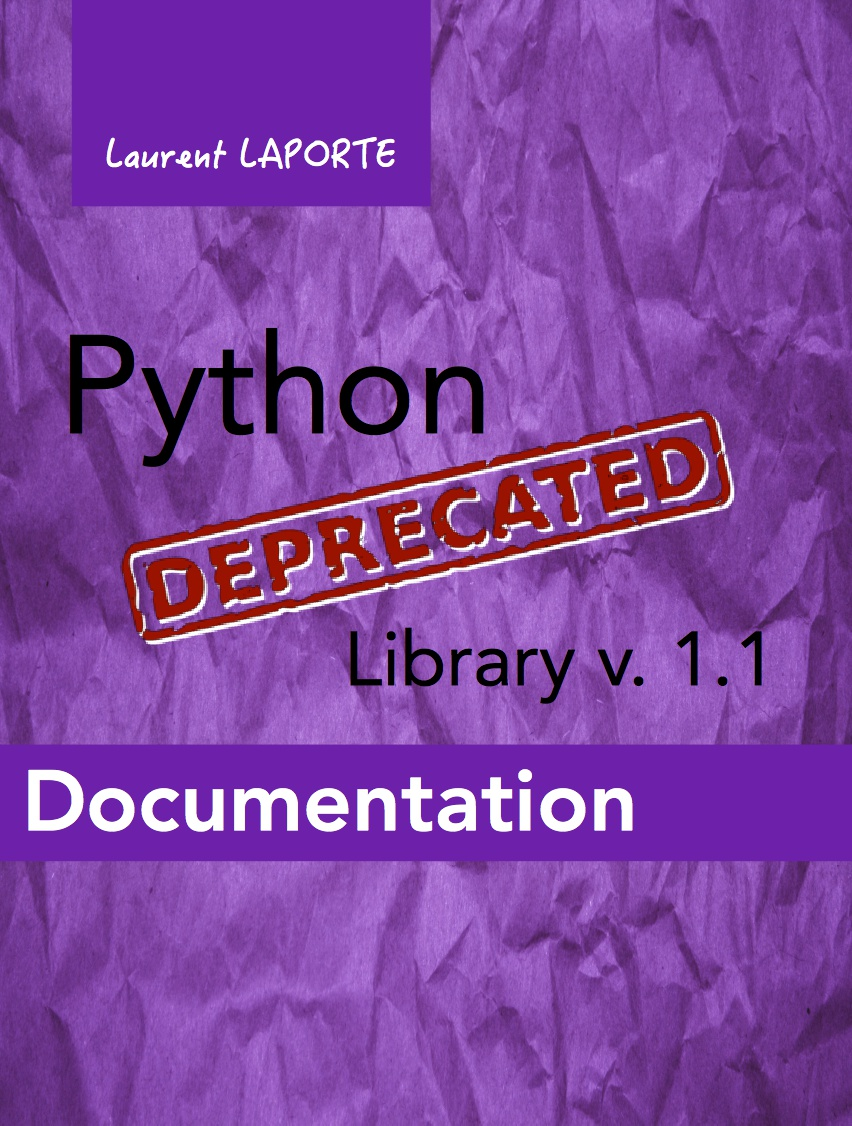
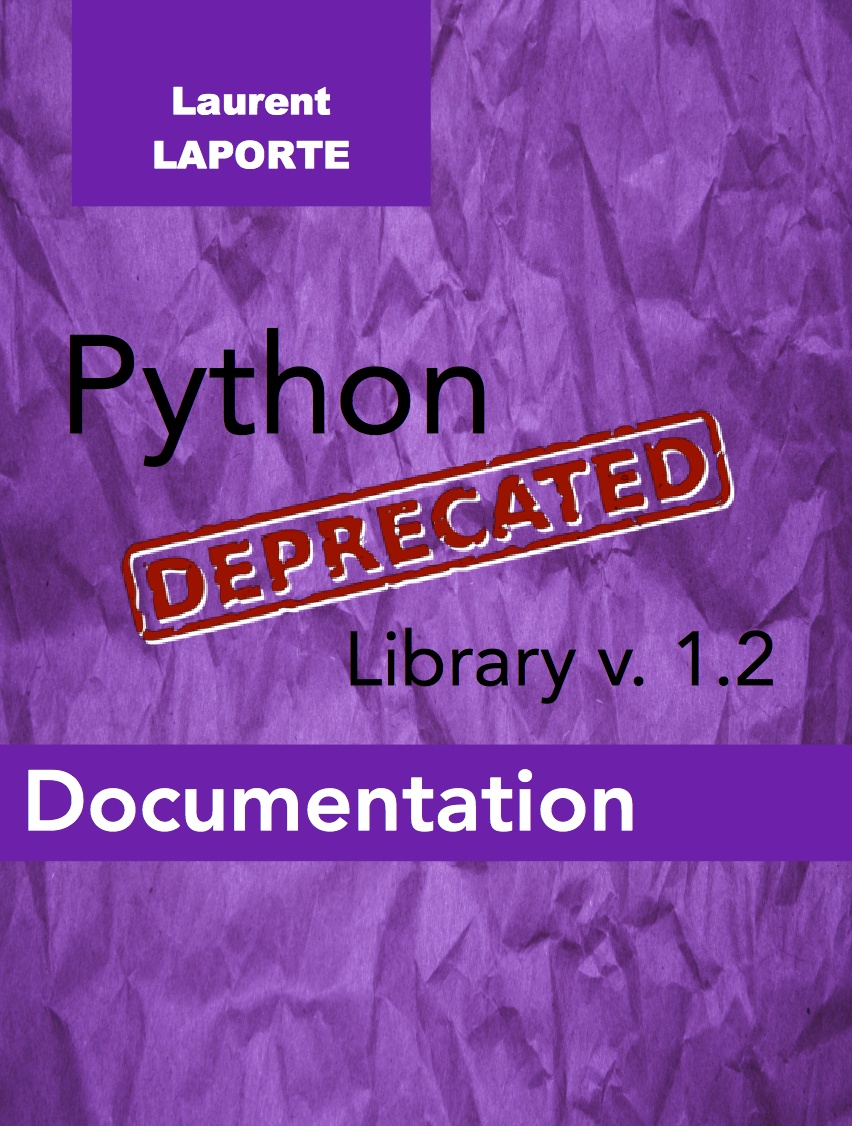
Change configuration for epub: update de version number in the title page.

diff --git a/docs/source/conf.py b/docs/source/conf.py
@@ -182,7 +182,7 @@ epub_theme_options = {
     # footer: If this is true, the footer block is inserted in the epub output, otherwise it is omitted.
     'footer': False
 }
-epub_title = "Python Deprecated Library v1.1 Documentation"
+epub_title = "Python Deprecated Library v1.2 Documentation"
 epub_description = "Python @deprecated decorator to deprecate old python classes, functions or methods."
 epub_author = author
 epub_contributor = "Original idea from Leandro REGUEIRO, Patrizio BERTONI, Eric WIESER"

diff --git a/CONTRIBUTING.rst b/CONTRIBUTING.rst
@@ -148,4 +148,4 @@ To generate the HTML documentation, run::
 
 To generate the epub v2 documentation, run::
 
-    sphinx-build -b epub2 -d dist/docs/doctrees docs/source/ dist/docs/epub/
+    sphinx-build -b epub -d dist/docs/doctrees docs/source/ dist/docs/epub/
